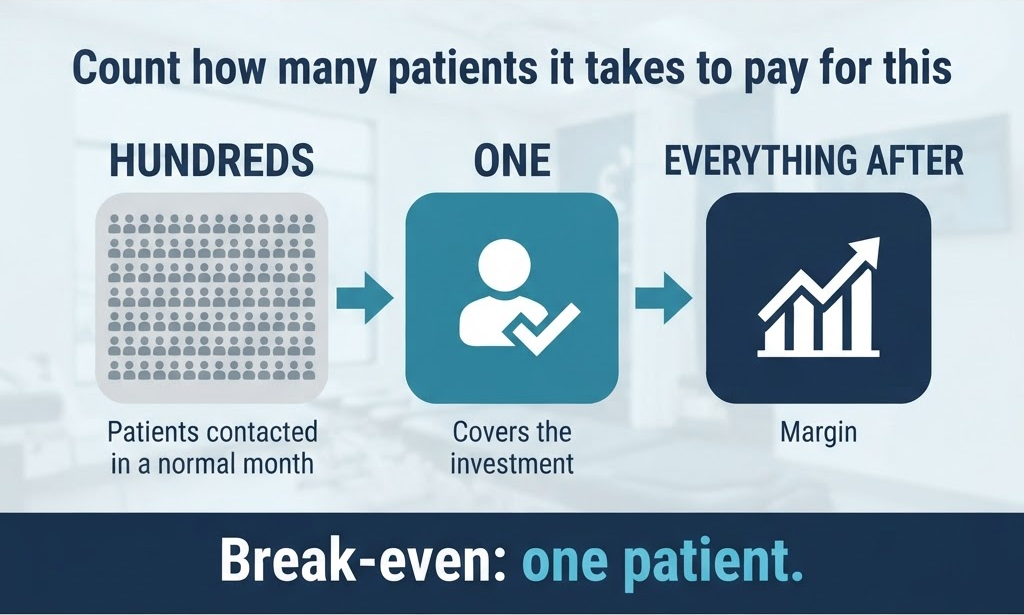
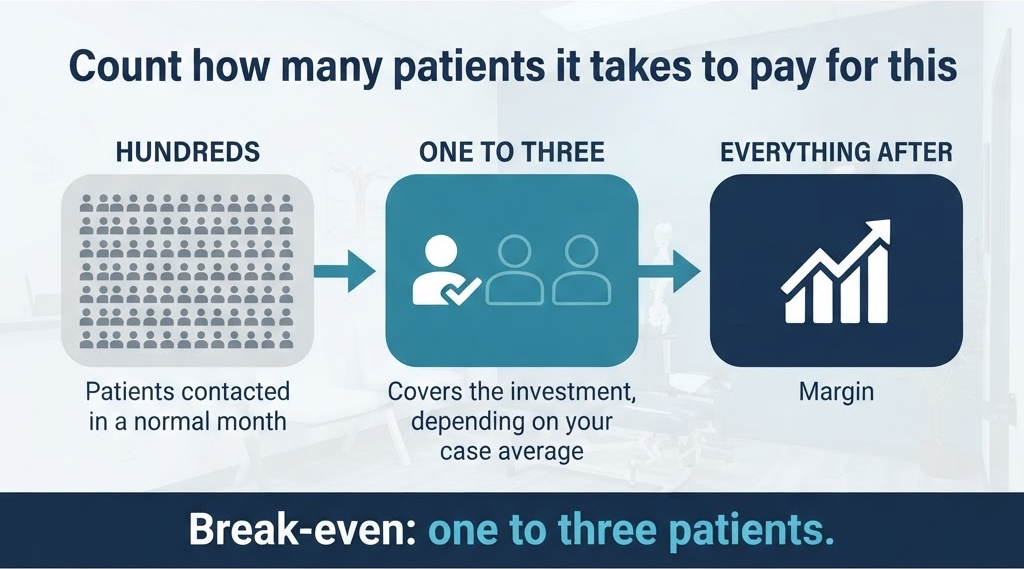
feat: update email 22 copy to reflect patient range

Changed region(s): [[0.0, 0.0598, 1.0, 1.0], [0.6562, 0.6573, 0.6875, 0.717], [0.625, 0.717, 0.6562, 0.7469]]

diff --git a/lib/email-templates.ts b/lib/email-templates.ts
@@ -1254,12 +1254,12 @@ ${button('Schedule a Call', LANDING_PAGE_URL)}
   {
     id: 'one-conversation',
     audience: 'chiropractic',
-    name: 'Email 22 — One Conversation Covers It',
-    subject: 'One conversation usually pays for the whole thing',
+    name: 'Email 22 — One to Three Patients Covers It',
+    subject: 'How many patients does it take to pay for this?',
     previewText:
-      'When a single returning patient covers the investment, the math stops being the hard part.',
+      'When one to three returning patients cover the investment, the math stops being the hard part.',
     angle:
-      'Low-risk close. Frames the break-even point as a single reactivated patient.',
+      'Low-risk close. Frames the break-even point as one to three reactivated patients, depending on the practice\'s case average — a range the sales call can land inside.',
     html: wrap(
       compose([
         h1('Count how many patients it takes to pay for this'),
@@ -1272,29 +1272,32 @@ ${button('Schedule a Call', LANDING_PAGE_URL)}
         ),
         p('Here, the answer is usually a very small number:'),
         bigStat(
-          'One patient',
-          'For most practices, a single reactivated patient and their plan of care covers the investment',
+          'One to three patients',
+          'Depending on your case average, that\'s how many reactivated patients — with their plans of care — it takes to cover the investment',
         ),
         p(
-          'That changes the decision entirely. You\'re not betting on a campaign performing. You\'re asking whether your team, given the exact words to say, can bring back <em>one</em> patient out of hundreds who already know you.',
+          'A practice with a higher average plan of care breaks even on one. A lower one might take three. Either way, it\'s a handful out of hundreds.',
+        ),
+        p(
+          'That changes the decision entirely. You\'re not betting on a campaign performing. You\'re asking whether your team, given the exact words to say, can bring back one, two, or three patients out of hundreds who already know you.',
         ),
         mathBox(
           [
             ['Patients contacted in a normal month', 'Hundreds'],
-            ['Needed to cover the investment', 'One'],
+            ['Needed to cover the investment', 'One to three'],
             ['Everything reactivated after that', 'Margin'],
           ],
           'Break-even',
-          'One patient',
+          'One to three patients',
         ),
         p(
-          'And that first patient is rarely the last one — every appointment after it is recovered revenue on a list you already owned.',
+          'And once you\'re past break-even, every appointment after it is recovered revenue on a list you already owned.',
         ),
         cta("Let's run your numbers and find your break-even:"),
         finePrint(),
         signoff('To your practice\u2019s growth,'),
       ]),
-      'When a single returning patient covers the investment, the math stops being the hard part.',
+      'When one to three returning patients cover the investment, the math stops being the hard part.',
     ),
   },
 ]

diff --git a/app/tmp-graphics-review/page.tsx b/app/tmp-graphics-review/page.tsx
@@ -81,13 +81,13 @@ const PROPOSALS: Proposal[] = [
   },
   {
     number: 22,
-    emailName: 'One Conversation Covers It',
-    subject: 'One conversation usually pays for the whole thing',
+    emailName: 'One to Three Patients Covers It',
+    subject: 'How many patients does it take to pay for this?',
     kind: 'Infographic',
     file: '/images/emails/22-one-conversation.png',
     placement:
-      'Replaces the math box (Hundreds / One / Margin). Same content, drawn.',
-    why: 'Same treatment as the Email 13 graphic. The teal ONE block being the hero is the entire email in a single glance.',
+      'Replaces the math box (Hundreds / One to three / Margin). Same content, drawn.',
+    why: 'Same treatment as the Email 13 graphic. The teal ONE TO THREE block being the hero is the entire email in a single glance, and the range matches the corrected copy so the sales call lands inside it.',
   },
 ]
 
